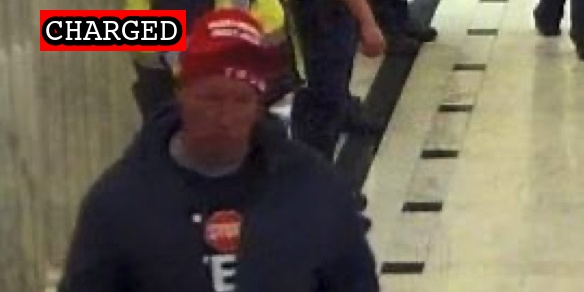
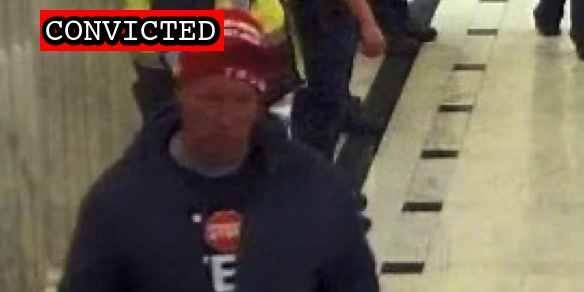
Uberto conviction

Changed region(s): [[0.0925, 0.0308, 0.4007, 0.1849]]

diff --git a/docs/_suspects/thomas-uberto.md b/docs/_suspects/thomas-uberto.md
@@ -4,15 +4,18 @@ lastName: Uberto
 hashtag:
 aka:
 residence: New York
-status: Charged
+status: Convicted
 date: 2022-01-04
 charged: 2022-01-04
 indicted:
-convicted:
-sentenced:
+convicted: 2022-09-02
+acquitted:
+sentenced: 2022-09-02
 dismissed:
 deceased:
 plea_hearing: 2022-09-02
+trial_date:
+trial_type:
 sentencing:
 age:
 occupation:
@@ -31,11 +34,18 @@ description: Click for latest case details. Suspects innocent until proven guilt
 author: seditiontrack
 layout: suspect
 published: true
-caseNumber: 1:22-cr-000
+caseNumber: 1:22-cr-7
 videos:
 charges:
+  - code: 40 USC § 5104(e)(2)(G)
+    title: Parading, demonstrating or picketing in a Capitol building
+    url: https://www.law.cornell.edu/uscode/text/40/5104
+    felony: false
 sentence:
+  - $500 restitution
 ---
 
 - [Statement of Facts](https://www.justice.gov/usao-dc/case-multi-defendant/file/1481286/download)
 - [Information](https://www.justice.gov/usao-dc/case-multi-defendant/file/1481291/download)
+- [Plea Agreement](https://www.justice.gov/usao-dc/case-multi-defendant/file/1532241/download)
+- [Statement of Offense](https://www.justice.gov/usao-dc/case-multi-defendant/file/1532246/download)

diff --git a/docs/_suspects/mathew-capsel.md b/docs/_suspects/mathew-capsel.md
@@ -4,17 +4,18 @@ lastName: Capsel
 hashtag: MathewCapsel
 aka: Mateo Q Capsel
 residence: Illinois
-status: Indicted
+status: Convicted
 date: 2021-01-19
 charged: 2021-01-19
 indicted: 2022-03-01
-convicted:
+convicted: 2022-09-02
 acquitted:
 sentenced:
 dismissed:
 deceased:
 plea_hearing: 2022-09-02
 trial_date:
+trial_type:
 sentencing:
 age: 27
 occupation:
@@ -36,6 +37,10 @@ published: true
 caseNumber:
 videos:
 charges:
+  - code: 18 USC § 231(a)(3)
+    title: Obstruction of Law Enforcement During Civil Disorder
+    url: https://www.law.cornell.edu/uscode/text/18/231
+    felony: true
 sentence:
 ---
 
@@ -43,3 +48,4 @@ sentence:
 - [Complaint](https://www.justice.gov/file/1360776/download)
 - [Statement of Facts](https://www.justice.gov/file/1360776/download)
 - [Indictment](https://extremism.gwu.edu/sites/g/files/zaxdzs2191/f/Mathew%20Capsel%20Indictment.pdf)
+- [Information](https://storage.courtlistener.com/recap/gov.uscourts.dcd.241871/gov.uscourts.dcd.241871.51.0.pdf)
